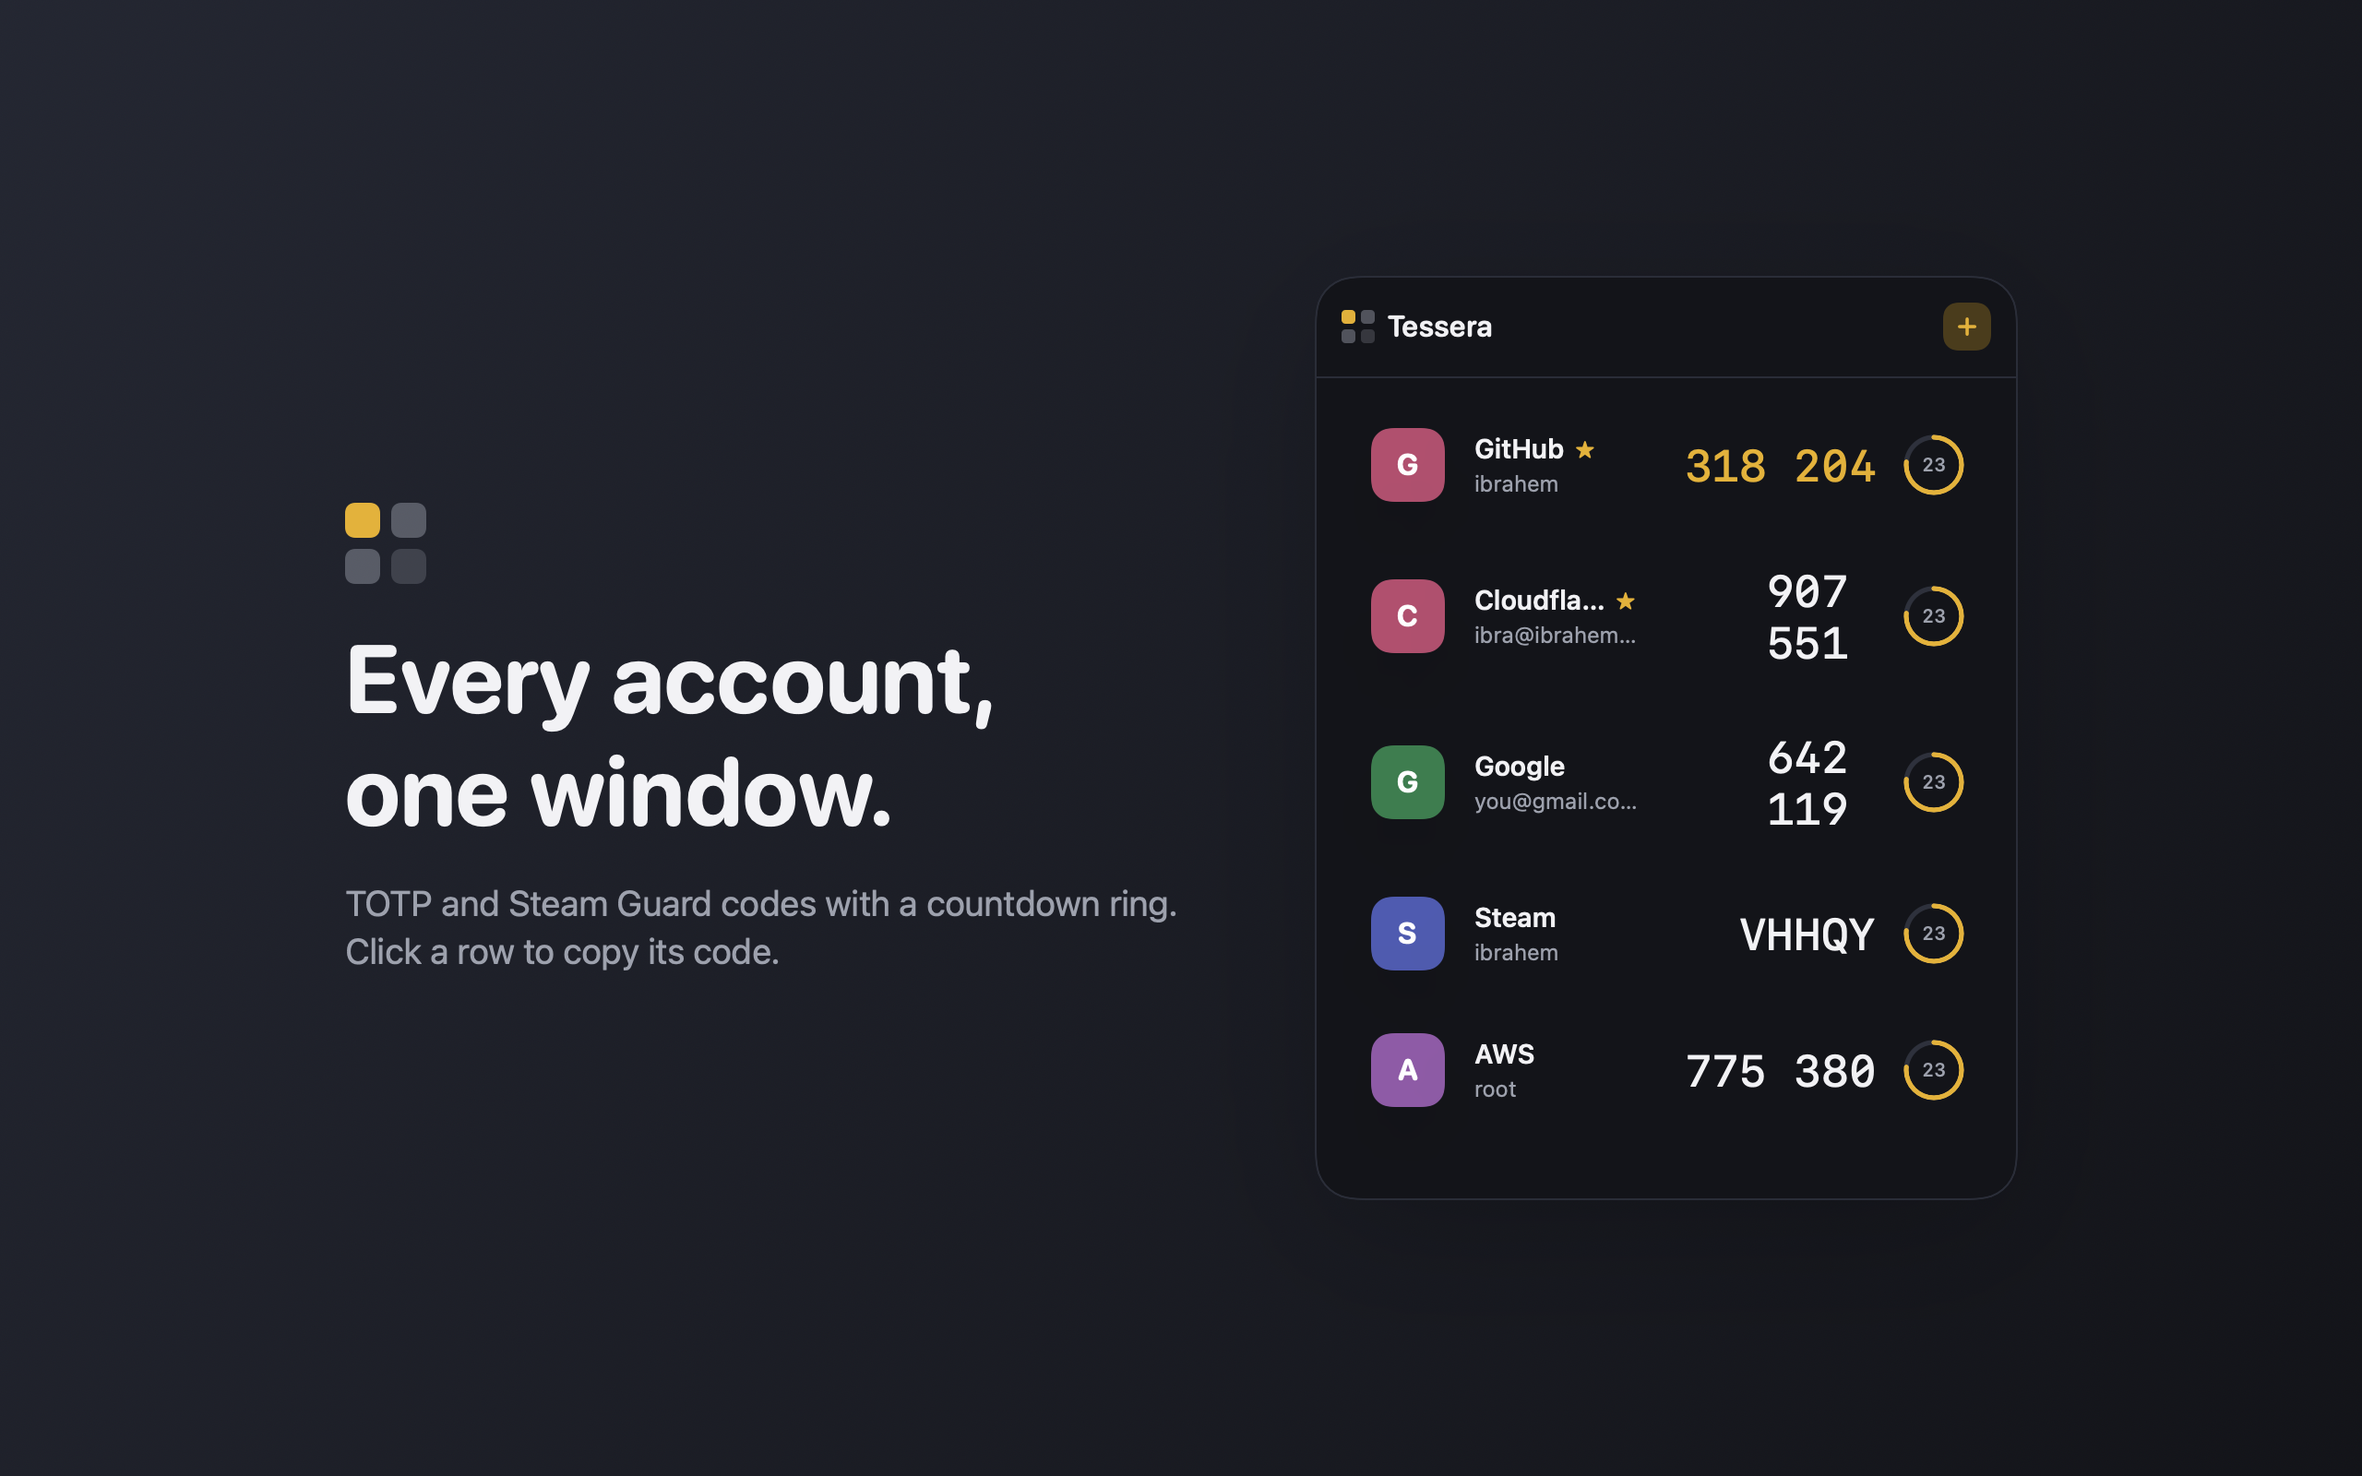
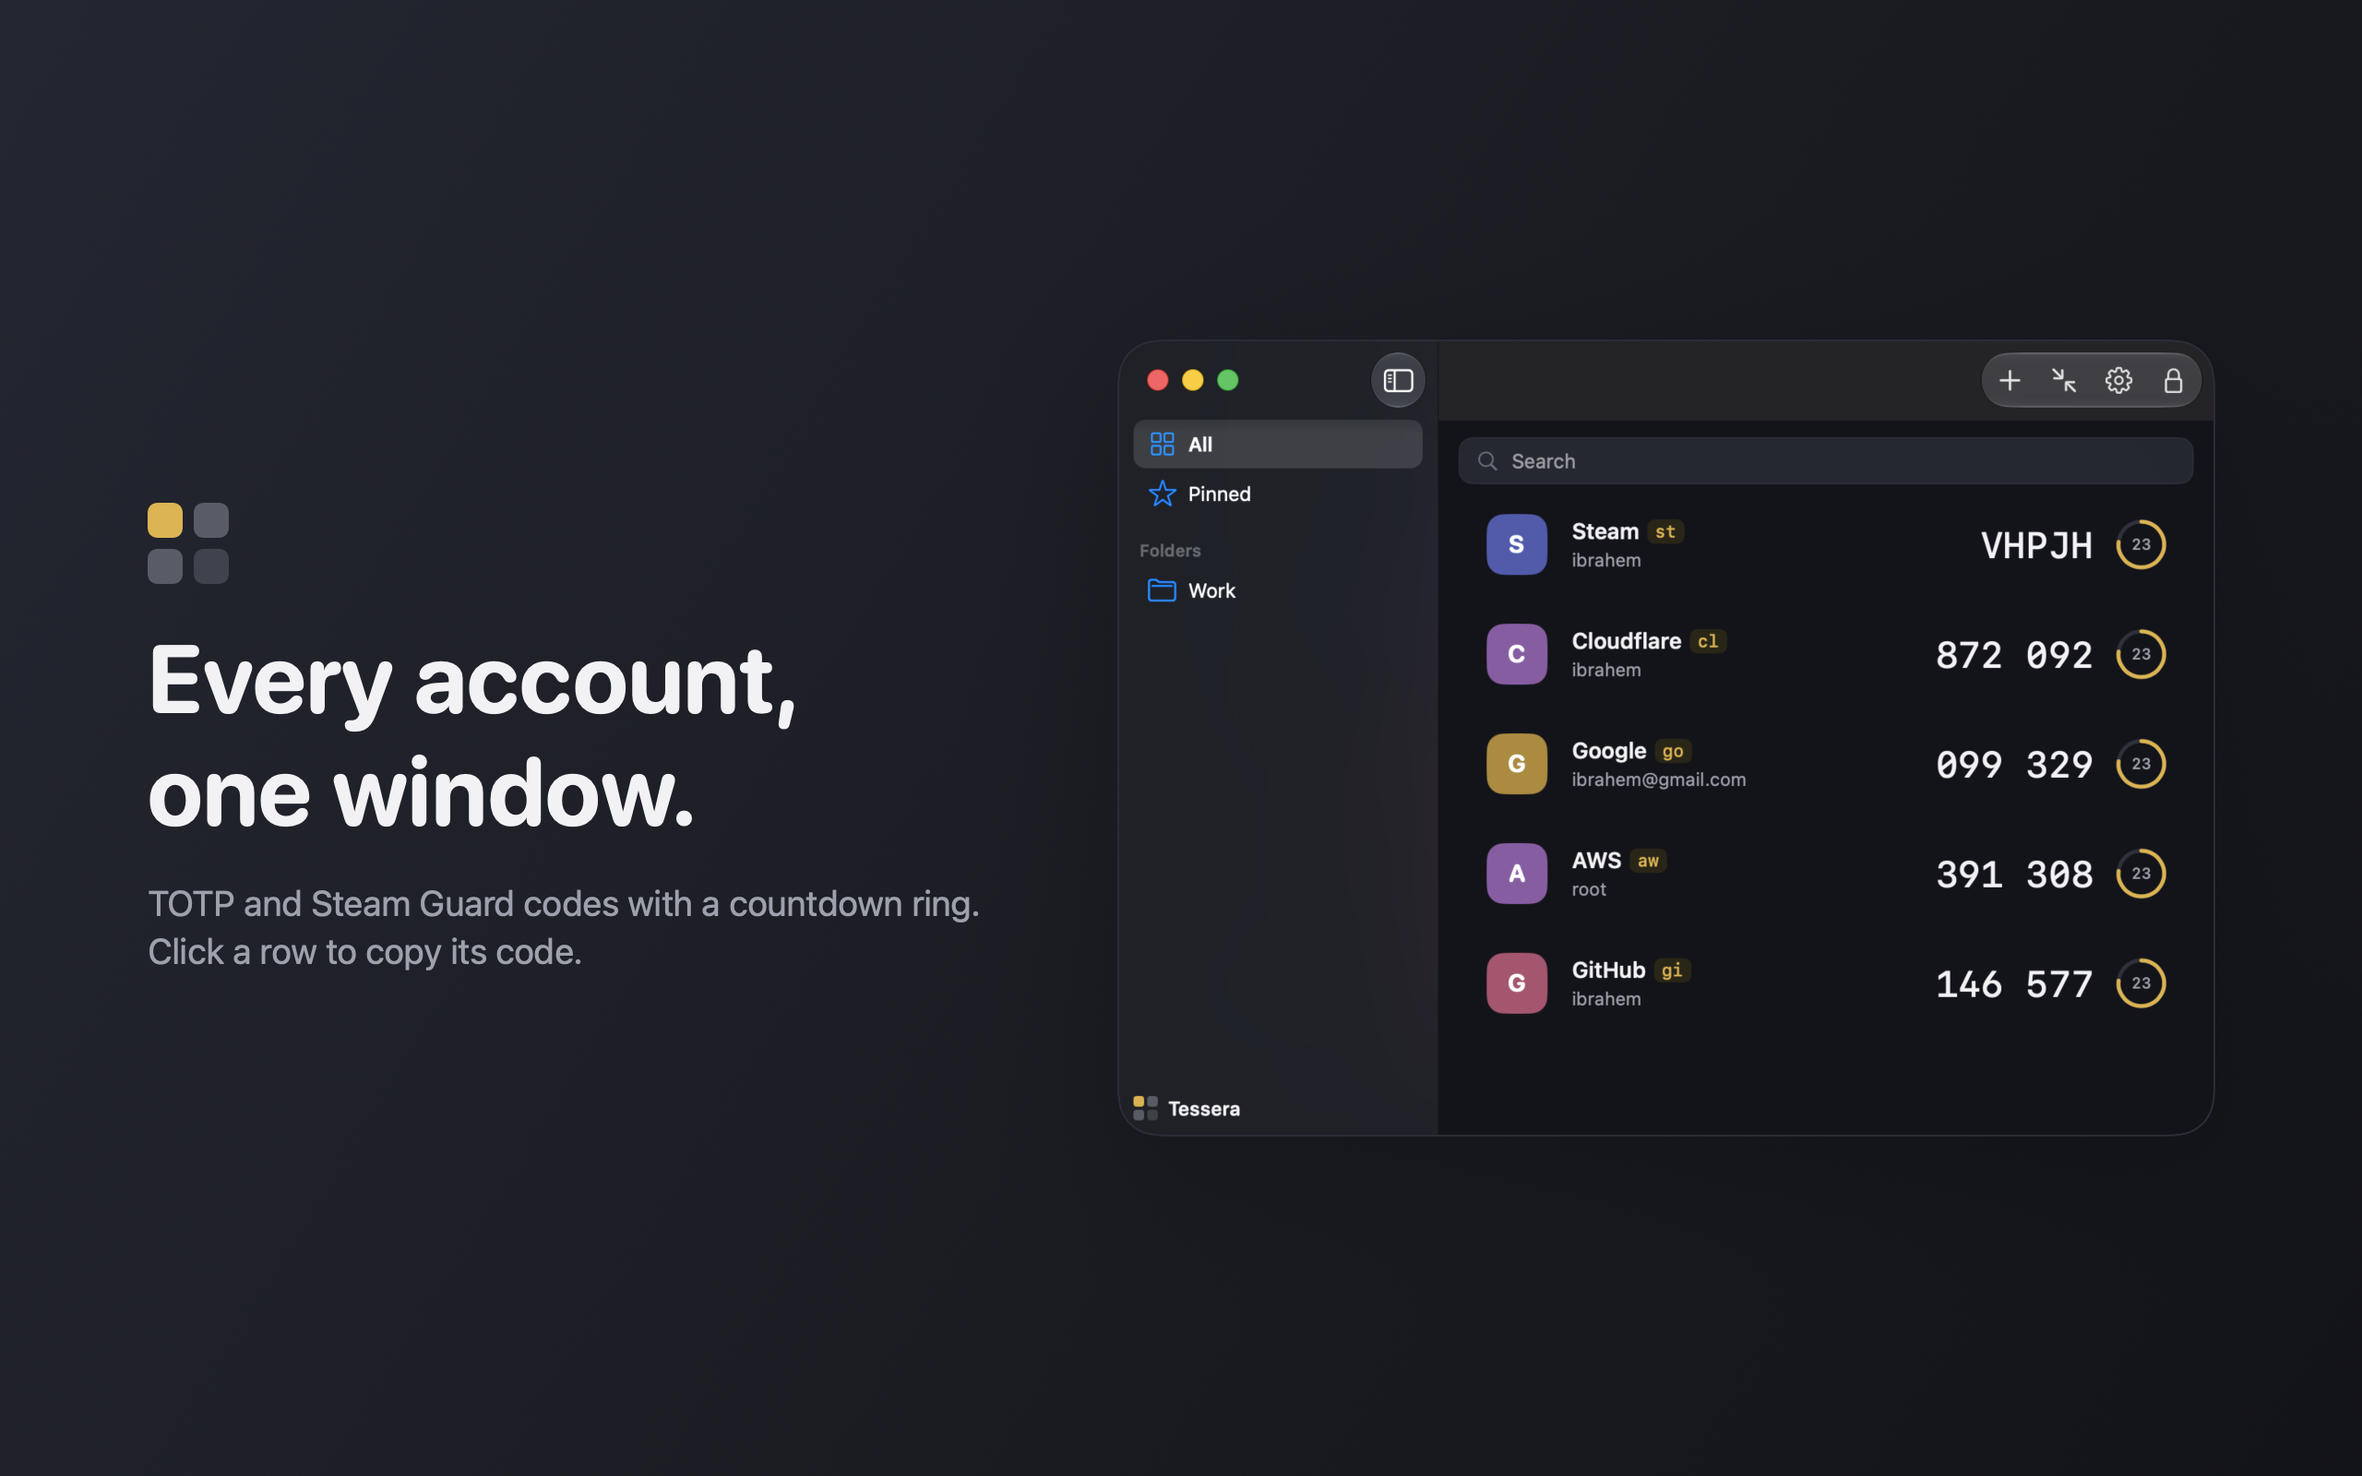
docs(store): live capture for the vault frame
03-vault now renders a screencapture of the unlocked window instead of
AccountRowView inside drawn chrome, so the frame that leads the upload is
a real window screenshot. TESSERA_ALLOW_CAPTURE=1 lifts sharingType in
DEBUG builds only, which is what makes the capture possible.

The QR-import-from-screen frame is still missing; MarketingShot renders
eight and none of them is QR.

diff --git a/swift/App/Sources/MarketingShot.swift b/swift/App/Sources/MarketingShot.swift
@@ -1,6 +1,5 @@
 import SwiftUI
 import AppKit
-import TesseraCore
 
 #if DEBUG
 /// `Tessera --marketing <dir>` renders App Store screenshots at the required
@@ -8,9 +7,11 @@ import TesseraCore
 /// compiled out of release builds.
 ///
 /// The terminal frames are not drawings: they render recorded output of the real
-/// `tess` binary, captured with `tmux capture-pane -e` against a throwaway vault
-/// and committed under `docs/appstore-assets/captures/`. Point the renderer at
-/// that directory with `TESSERA_SHOT_CAPTURES`, or pass `--captures <dir>`.
+/// `tess` binary, captured with `tmux capture-pane -e` against a throwaway vault.
+/// The vault frame is not a drawing either: it renders a `screencapture` of the
+/// running app's unlocked window. Both live in `docs/appstore-assets/captures/`.
+/// Point the renderer at that directory with `TESSERA_SHOT_CAPTURES`, or pass
+/// `--captures <dir>`.
 @MainActor
 enum MarketingShot {
     static func runIfRequested() -> Bool {
@@ -20,8 +21,11 @@ enum MarketingShot {
         try? FileManager.default.createDirectory(atPath: dir, withIntermediateDirectories: true)
 
         let captures: [String: [[AnsiRun]]]
+        let vaultWindow: WindowCapture.Pair
         do {
-            captures = try TerminalCapture.loadAll(in: resolveCaptureDir(args))
+            let captureDir = resolveCaptureDir(args)
+            captures = try TerminalCapture.loadAll(in: captureDir)
+            vaultWindow = try WindowCapture.loadVault(in: captureDir)
         } catch {
             FileHandle.standardError.write(Data("tessera --marketing: \(error)\n".utf8))
             exit(2)
@@ -39,7 +43,7 @@ enum MarketingShot {
             ("03-vault", AnyView(Frame(
                 title: "Every account,\none window.",
                 subtitle: "TOTP and Steam Guard codes with a countdown ring. Click a row to copy its code.",
-                content: WindowMock()))),
+                content: WindowShot(capture: vaultWindow)))),
             ("04-touchid", AnyView(Frame(
                 title: "Unlock with\nTouch ID.",
                 subtitle: "The vault is encrypted on your Mac with XChaCha20-Poly1305, and its key is wrapped by the Secure Enclave.",
@@ -336,46 +340,74 @@ private struct TerminalBox: View {
     }
 }
 
+// MARK: Recorded window captures
+
+enum WindowCaptureError: Error, CustomStringConvertible {
+    case captureMissing(name: String, dir: String)
+    case undecodable(path: String)
+
+    var description: String {
+        switch self {
+        case .captureMissing(let name, let dir):
+            return "missing capture \(name).png in \(dir). Record it with the command listed in docs/APP_STORE.md, Screenshots."
+        case .undecodable(let path):
+            return "cannot decode \(path) as an image."
+        }
+    }
+}
+
+/// Loads `screencapture` recordings of the running app's window. `ImageRenderer`
+/// never lays out the populated vault list headless, so `03-vault` renders a real
+/// window capture instead of drawn chrome. Re-record rather than edit them; an
+/// edited capture is a fake screenshot.
+enum WindowCapture {
+    struct Pair {
+        let light: NSImage
+        let dark: NSImage
+    }
+
+    static func loadVault(in dir: String) throws -> Pair {
+        Pair(light: try load("app-vault-light", in: dir), dark: try load("app-vault-dark", in: dir))
+    }
+
+    private static func load(_ name: String, in dir: String) throws -> NSImage {
+        let path = "\(dir)/\(name).png"
+        guard FileManager.default.fileExists(atPath: path) else {
+            throw WindowCaptureError.captureMissing(name: name, dir: dir)
+        }
+        guard let image = NSImage(contentsOfFile: path) else {
+            throw WindowCaptureError.undecodable(path: path)
+        }
+        return image
+    }
+}
+
+/// A window capture scaled to the frame's content column: 1280 minus the 80pt
+/// horizontal padding on each side, the 470pt text column, and the 56pt gap. The
+/// captures are 2x, so this downsamples at render scale 2 rather than upsampling.
+private struct WindowShot: View {
+    let capture: WindowCapture.Pair
+    @Environment(\.colorScheme) private var scheme
+
+    var body: some View {
+        let image = scheme == .dark ? capture.dark : capture.light
+        let width: CGFloat = 594
+        Image(nsImage: image)
+            .resizable()
+            .interpolation(.high)
+            .frame(width: width, height: (width * image.size.height / image.size.width).rounded())
+    }
+}
+
 // MARK: App screens
 
-private func sample() -> [Account] { AppModel.sampleAccounts }
-
-/// The app's real locked screen, rendered from RootView. ImageRenderer cannot
-/// draw the populated vault (its list never lays out headless), so the vault
-/// frame below composes the app's real row view instead.
+/// The app's real locked screen, rendered from RootView.
 private struct LockedScreen: View {
     var body: some View {
         RootView()
             .environmentObject(AppModel(demo: .locked))
             .frame(width: 380, height: 500)
             .background(Palette.background)
-    }
-}
-
-private struct WindowMock: View {
-    var body: some View {
-        VStack(spacing: 0) {
-            HStack {
-                HStack(spacing: 7) { MosaicMark(side: 18); Text("Tessera").font(Typo.display(16)).foregroundStyle(Palette.textPrimary) }
-                Spacer()
-                Image(systemName: "plus").font(.system(size: 12, weight: .bold)).foregroundStyle(Palette.accent)
-                    .frame(width: 26, height: 26).background(Palette.accentSoft, in: RoundedRectangle(cornerRadius: 8))
-            }.padding(14)
-            Divider().overlay(Palette.border)
-            VStack(spacing: 8) {
-                ForEach(Array(sample().prefix(5).enumerated()), id: \.element.id) { i, a in
-                    // Every sample account is period 30, so the real app shows one
-                    // shared epoch-aligned countdown, not a per-row value.
-                    AccountRowView(account: a, remaining: 23,
-                                   code: ["318 204", "907 551", "642 119", "VHHQY", "775 380"][i],
-                                   copied: i == 0, reduceMotion: true,
-                                   onCopy: {}, onAdvance: {})
-                }
-            }.padding(14)
-            Spacer(minLength: 0)
-        }
-        .frame(width: 380, height: 500)
-        .background(Palette.background)
     }
 }
 

diff --git a/swift/App/Sources/Views.swift b/swift/App/Sources/Views.swift
@@ -1571,6 +1571,15 @@ struct WindowConfigurator: NSViewRepresentable {
         // sheets must not travel through a call or a screen capture. Standard for
         // an authenticator, and there is no reason to make it optional.
         window.sharingType = .none
+        #if DEBUG
+        // The App Store frames are real window captures, which the line above
+        // blocks outright. TESSERA_ALLOW_CAPTURE=1 lifts the shield for that one
+        // run against a throwaway vault; DEBUG-only, so no shipping binary can
+        // reach it. See docs/APP_STORE.md, Screenshots.
+        if ProcessInfo.processInfo.environment["TESSERA_ALLOW_CAPTURE"] == "1" {
+            window.sharingType = .readOnly
+        }
+        #endif
         return true
     }
 

diff --git a/docs/APP_STORE.md b/docs/APP_STORE.md
@@ -192,8 +192,10 @@ mode.
 
 The terminal frames are not drawings. `docs/appstore-assets/captures/*.ansi` are
 `tmux capture-pane -e` recordings of the real `tess` binary run against a
-throwaway vault, and the renderer parses their SGR colors. Re-record rather than
-edit them; a hand-edited capture is a fake screenshot.
+throwaway vault, and the renderer parses their SGR colors. The vault frame is not
+a drawing either: `captures/app-vault-{light,dark}.png` are `screencapture`
+recordings of the running app's unlocked window. Re-record rather than edit them;
+a hand-edited capture is a fake screenshot.
 
 Regenerate every frame:
 
@@ -220,6 +222,44 @@ tmux kill-session -t shot
 84 columns is the width the renderer's terminal box holds without wrapping.
 Capture `tess watch` mid-period so the countdown bars are visibly draining.
 
+Re-record the vault window (`03-vault`). `ImageRenderer` never lays out the
+populated list headless, so that frame renders a real window capture. Build
+Debug, then launch the app with the same exported `TESSERA_VAULT` still set (the
+app reads it too), unlock it, and size the window to 720×522:
+
+```sh
+TESSERA_ALLOW_CAPTURE=1 \
+  /tmp/tessera-dd/Build/Products/Debug/Tessera.app/Contents/MacOS/Tessera &
+# unlock, then once per appearance (System Settings > Appearance):
+screencapture -o -w docs/appstore-assets/captures/app-vault-light.png   # click the window
+```
+
+The app sets `window.sharingType = .none`, so the capture comes back empty
+without `TESSERA_ALLOW_CAPTURE=1`, which lifts the shield in DEBUG builds only.
+Move the pointer off the window first (a hovered row draws its highlight) and
+capture mid-period so the countdown rings are visibly partial. 720pt wide
+downsamples into the frame's 594pt content column instead of upsampling. `-o`
+drops the window shadow, which the renderer draws itself; flatten the
+transparent rounded corners it leaves behind, because the renderer re-rounds
+them at 22pt:
+
+```sh
+python3 -c 'import sys
+from PIL import Image
+for p in sys.argv[1:]:
+    im = Image.open(p).convert("RGBA"); w, h = im.size; px = im.load()
+    for y in range(h):
+        op = [x for x in range(w) if px[x, y][3] >= 250]
+        first, last = op[0], op[-1]
+        lc, rc = px[first, y][:3], px[last, y][:3]
+        for x in range(w):
+            if px[x, y][3] < 250:
+                px[x, y] = (lc if x - first < last - x else rc) + (255,)
+    im.convert("RGB").save(p, "PNG", optimize=True, compress_level=9)' \
+  docs/appstore-assets/captures/app-vault-light.png \
+  docs/appstore-assets/captures/app-vault-dark.png
+```
+
 Each frame lands at roughly 3.6 MB. Recompress losslessly before committing:
 
 ```sh
@@ -239,7 +279,7 @@ and the recorded CLI frames follow.
 
 | # | File | Caption | Source |
 |---|---|---|---|
-| 1 | `docs/appstore-assets/1.0.3/03-vault-light.png` | Every account, one window. | **needs the live capture first**, see below |
+| 1 | `docs/appstore-assets/1.0.3/03-vault-light.png` | Every account, one window. | a real capture of the unlocked window |
 | 2 | `docs/appstore-assets/1.0.3/04-touchid-light.png` | Unlock with Touch ID. | the app's real locked screen |
 | 3 | `docs/appstore-assets/1.0.3/01-watch-light.png` | Codes in your terminal. | recorded `tess watch` |
 | 4 | `docs/appstore-assets/1.0.3/02-code-light.png` | One command, one code. | recorded `tess code github -c` |
@@ -250,27 +290,17 @@ and the recorded CLI frames follow.
 
 Six of the eight are not app UI: four are recorded `tess` terminal output, one
 is the vault-format card, one is entitlements + LICENSE. That is the sharpest
-2.3.3 exposure in this submission. Frame 1 is the fix and the blocker at once:
-leading with the app satisfies 2.3.3, but the file sitting there today is a
-composite, so replace it with a real window capture before uploading anything
-(see "Still needs a live capture"). If that capture cannot happen, drop it and
-lead with `04-touchid-light.png`.
+2.3.3 exposure in this submission, and the first two frames answer it: 1 is a
+capture of the running app's unlocked window, 2 is its real locked screen.
+
+The vault frame and the recorded terminal frames show the same five accounts in
+the same folders. Keep them that way when re-recording either side.
 
 ### Still needs a live capture
 
-Two frames cannot be produced by the headless renderer, because `ImageRenderer`
-does not lay out the populated vault list and draws `TextEditor` as an
-unsupported placeholder:
-
-- **QR import from screen.** The "Scan screen" flow in `AddAccountView` needs a
-  running app with screen-recording permission granted. Capture it on the Xcode
-  machine: put a QR on screen, open Add accounts, click Scan screen, and record
-  the window.
-- **The populated window (blocks upload).** `03-vault-*.png` composes the app's
-  real `AccountRowView` inside drawn window chrome: no traffic lights, no
-  sidebar, no search field, and the narrow frame truncates the longer account
-  labels. It reads as a window screenshot and is not one. Replace it with a real
-  window capture of the unlocked vault, light and dark, on the Xcode machine.
-  Documenting the composite does not make it 2.3.3-compliant; if the live
-  capture cannot happen before submission, drop the frame rather than upload it
-  as a window screenshot.
+**QR import from screen.** `ImageRenderer` draws `TextEditor` as an unsupported
+placeholder, so `AddAccountView` cannot be rendered headless, and the "Scan
+screen" flow needs a running app with screen-recording permission granted: put a
+QR on screen, open Add accounts, click Scan screen, and capture the window.
+`MarketingShot` renders eight frames and none of them is QR, so this needs a
+frame and a caption decided before the capture has anywhere to land.
